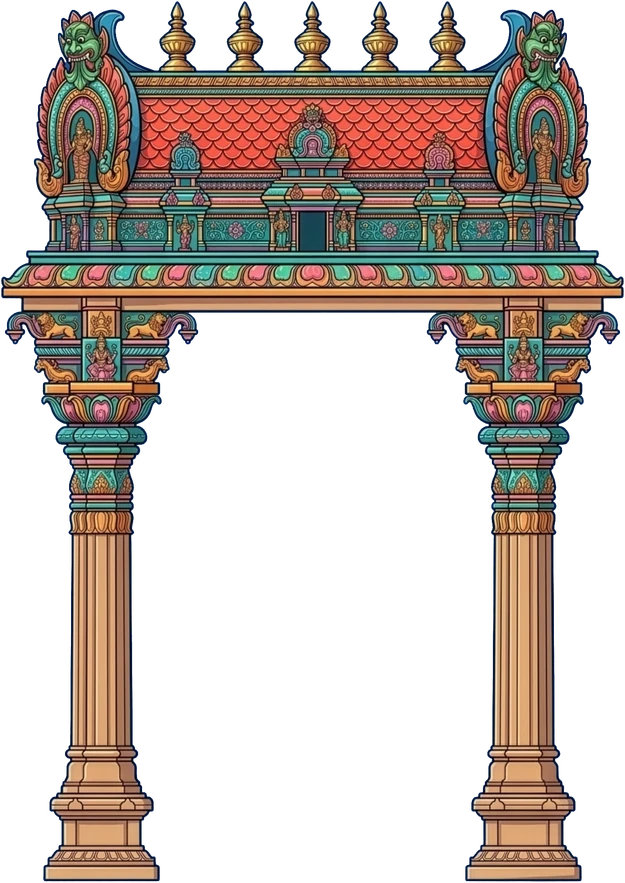
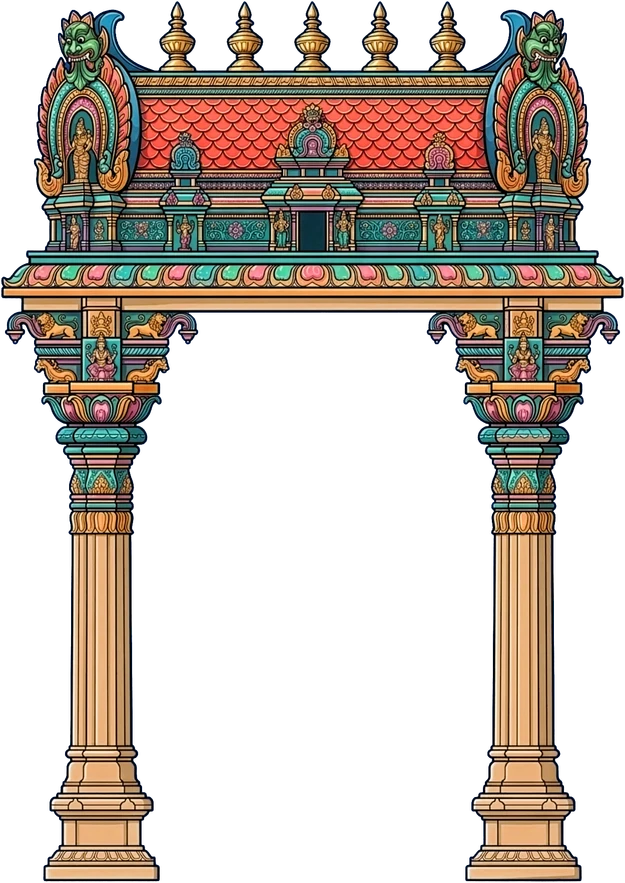
Arch matches the hero: same colours and one continuous sky
The arch art is graded to the hero temple's palette (golden sandstone,
richer roof and teal; scripts/match-hero-colours.mjs). Its sky is now
held on the screen like the hero's, so the arch slides over one
continuous sky; the scalloped edge is a gold line only.

Changed region(s): [[0.0, 0.0, 1.0, 1.0], [0.9728, 0.3669, 1.0, 0.3975], [0.8512, 0.0, 0.8816, 0.0306]]

diff --git a/src/components/scenes/InvitationStage.tsx b/src/components/scenes/InvitationStage.tsx
@@ -120,9 +120,11 @@ export function ArchScene() {
       ref={root}
       id="invitation"
       aria-labelledby="invite-heading"
-      className="cobalt relative overflow-x-clip pb-10"
+      className="cobalt sky-pinned relative overflow-x-clip pb-10"
     >
-      <div aria-hidden className="edge edge-scallop-top" style={{ ["--edge" as string]: "var(--sky-top)" }} />
+      {/* the hero's sky, held on the screen so the arch slides over one continuous sky */}
+      <div aria-hidden className="sky-layer" />
+      <div aria-hidden className="edge edge-scallop-top" />
       {/* the arch, a little wider than phones so the opening is roomy (pillars still in view); full width on large screens */}
       <div className="relative left-1/2 -translate-x-1/2" style={{ width: "max(min(118vw, 45rem), 100vw)" }}>
       <div ref={set("box")} data-layer className="relative w-full" aria-label="A colourful carved temple arch with golden finials and a red tiled roof">

diff --git a/src/styles/index.css b/src/styles/index.css
@@ -133,6 +133,26 @@
       background-attachment: fixed;
     }
   }
+  /* A section that slides over a pinned cobalt scene: its sky stays put on the screen
+     (a fixed layer clipped to the section — works on phones, unlike background-attachment),
+     so both show the very same sky and the hand-over has no seam. The scalloped edge
+     is drawn as a gold line only, the sky showing through it. */
+  .sky-pinned {
+    isolation: isolate;
+    clip-path: inset(-24px 0 0 0);
+    --edge: transparent;
+  }
+  .sky-pinned > .sky-layer {
+    position: fixed;
+    inset: 0 0 auto;
+    height: 100svh;
+    z-index: -1;
+    pointer-events: none;
+    background-color: #0d84e6;
+    background-image: url("/media/invite-sky.webp");
+    background-size: cover;
+    background-position: center top;
+  }
   .cobalt [class*="text-[#fbf2dc]"],
   .cobalt [class*="text-[#f3cf73]"],
   .cobalt .text-white {
